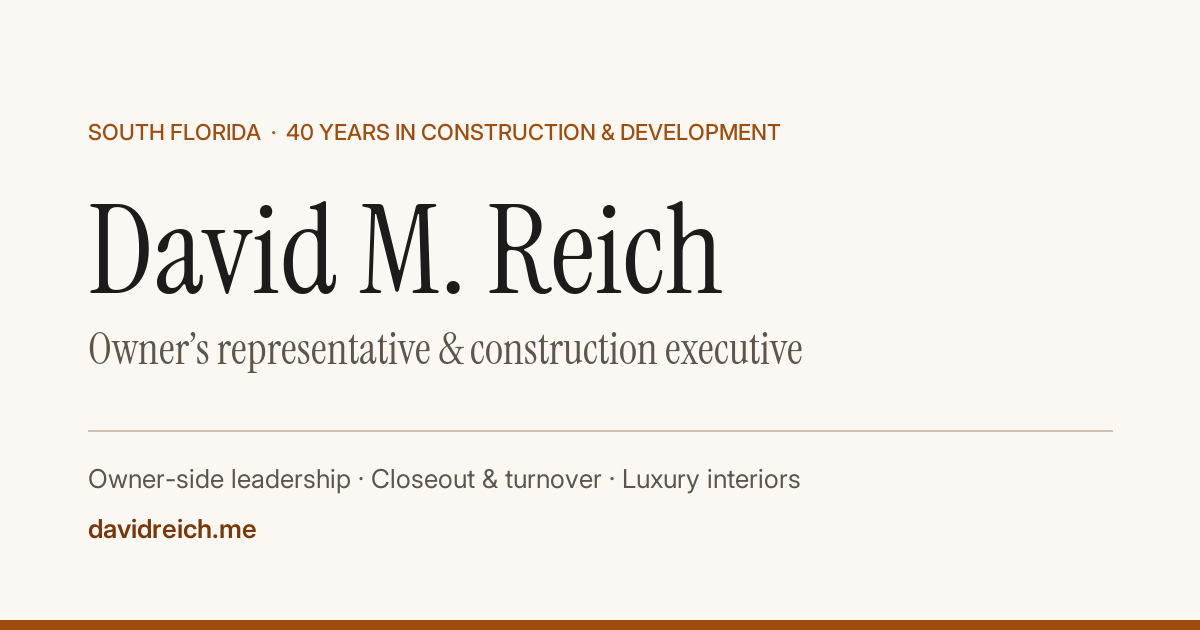
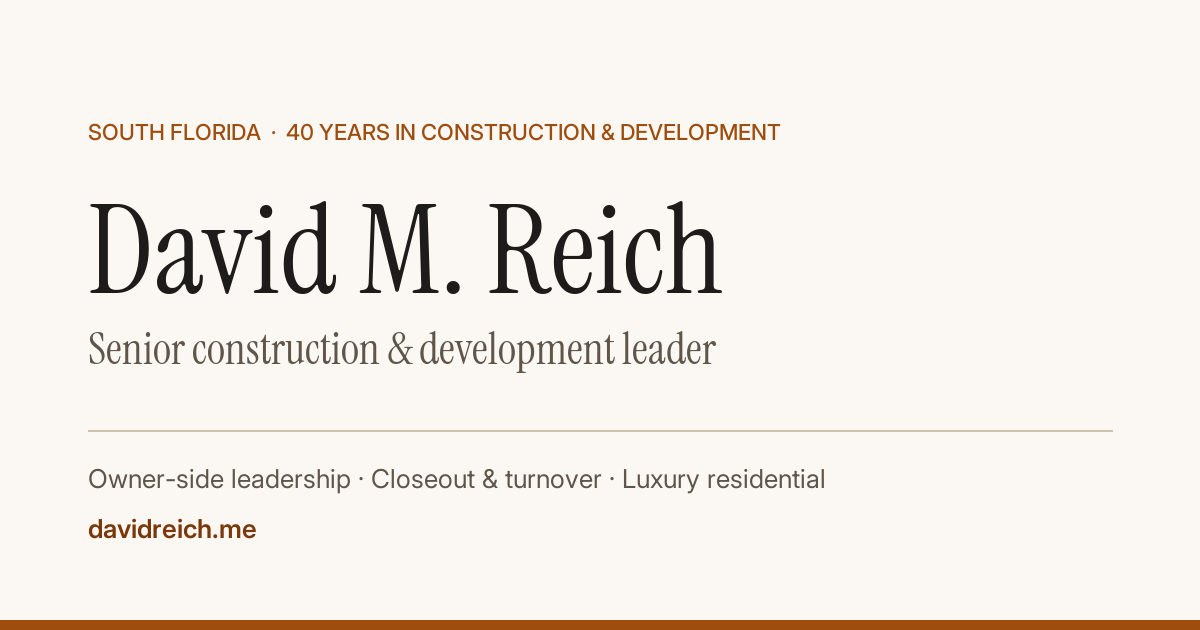
Employment-first positioning (per Sol): senior construction & development leader, experience-first CTA and order, services as 'What I lead', drop 2026 independent row

Changed region(s): [[0.0617, 0.5127, 0.6783, 0.6032], [0.5858, 0.754, 0.7092, 0.7841]]

diff --git a/index.html b/index.html
@@ -3,22 +3,22 @@
 <head>
 <meta charset="utf-8">
 <meta name="viewport" content="width=device-width, initial-scale=1">
-<title>David M. Reich | Owner’s Representative &amp; Construction Executive, South Florida</title>
-<meta name="description" content="South Florida owner’s representative and construction executive with 40 years across development, contracting, luxury interiors, project oversight, closeout and turnover.">
+<title>David M. Reich | Senior Construction &amp; Development Leader, South Florida</title>
+<meta name="description" content="Senior construction and development leader in South Florida with 40 years across development, contracting, luxury interiors, project oversight, closeout and turnover.">
 <link rel="canonical" href="https://davidreich.me/">
 <link rel="icon" href="/favicon.svg" type="image/svg+xml">
 <meta name="theme-color" content="#fbf8f3">
 <meta property="og:type" content="profile">
 <meta property="og:url" content="https://davidreich.me/">
-<meta property="og:title" content="David M. Reich | Owner’s Representative &amp; Construction Executive">
+<meta property="og:title" content="David M. Reich | Senior Construction &amp; Development Leader">
 <meta property="og:description" content="40 years across development, contracting, ownership and operations. Luxury condo closeout, finishes and owner-side leadership in South Florida.">
 <meta property="og:image" content="https://davidreich.me/og.png">
 <meta property="og:image:width" content="1200">
 <meta property="og:image:height" content="630">
-<meta property="og:image:alt" content="David M. Reich, Owner’s Representative and Construction Executive, South Florida">
+<meta property="og:image:alt" content="David M. Reich, senior construction and development leader, South Florida">
 <meta name="twitter:card" content="summary_large_image">
 <script type="application/ld+json">
-{"@context":"https://schema.org","@type":"Person","name":"David M. Reich","url":"https://davidreich.me/","email":"mailto:david@davidreich.me","jobTitle":"Owner’s Representative and Construction Executive","knowsAbout":["Owner’s representation","Construction management","Real estate development","Project closeout and turnover","Luxury interiors and finishes"],"areaServed":["Miami-Dade County, FL","Broward County, FL","Palm Beach County, FL"],"address":{"@type":"PostalAddress","addressLocality":"Fort Lauderdale","addressRegion":"FL","addressCountry":"US"},"alumniOf":[{"@type":"CollegeOrUniversity","name":"Baruch College, Zicklin School of Business"},{"@type":"CollegeOrUniversity","name":"Queens College"}],"sameAs":["https://www.linkedin.com/in/david-m-reich"]}
+{"@context":"https://schema.org","@type":"Person","name":"David M. Reich","url":"https://davidreich.me/","email":"mailto:david@davidreich.me","jobTitle":"Senior Construction and Development Leader","knowsAbout":["Owner’s representation","Construction management","Real estate development","Project closeout and turnover","Luxury interiors and finishes"],"areaServed":["Miami-Dade County, FL","Broward County, FL","Palm Beach County, FL"],"address":{"@type":"PostalAddress","addressLocality":"Fort Lauderdale","addressRegion":"FL","addressCountry":"US"},"alumniOf":[{"@type":"CollegeOrUniversity","name":"Baruch College, Zicklin School of Business"},{"@type":"CollegeOrUniversity","name":"Queens College"}],"sameAs":["https://www.linkedin.com/in/david-m-reich"]}
 </script>
 <link rel="preconnect" href="https://fonts.googleapis.com">
 <link rel="preconnect" href="https://fonts.gstatic.com" crossorigin>
@@ -162,8 +162,8 @@ textarea.input{ resize:vertical; min-height:120px }
 <header class="nav">
   <nav class="wrap" aria-label="Primary">
     <a class="brand" href="#main">David M. Reich</a>
-    <a href="#services">Services</a>
     <a href="#experience">Experience</a>
+    <a href="#services">What I lead</a>
     <a href="https://www.linkedin.com/in/david-m-reich" rel="me">LinkedIn</a>
     <a class="nav-cta" href="#engage">Get in touch</a>
   </nav>
@@ -174,13 +174,13 @@ textarea.input{ resize:vertical; min-height:120px }
   <div class="hero">
     <div>
       <h1>David M. Reich</h1>
-      <p class="role">Owner’s representative and construction executive in South Florida</p>
+      <p class="role">Senior construction and development leader in South Florida</p>
     </div>
     <div class="hero-body">
-      <p class="lede">I help owners and builders get complicated projects across the finish line, from planning through closeout and delivery. I stay with it.</p>
+      <p class="lede">I lead complicated projects to completion for owners and developers, from planning through closeout and delivery. I stay with it.</p>
       <p>I have worked as an owner’s rep, a ground-up developer, a general contractor, a property buyer and operator, and a hands-on construction manager.</p>
-      <p>I am open to senior roles with South Florida owners, developers and owner’s-rep firms (Director or VP of Construction, Project Executive, Senior Construction Manager) and to select owner’s-rep engagements. Either way, you deal with me directly.</p>
-      <div class="cta"><a class="btn" href="#engage">Discuss a role or project</a><a class="btn-ghost" href="#experience">See selected projects</a></div>
+      <p>I am looking for a senior leadership role with a South Florida owner, developer or builder: Director of Construction, Director of Project Management, Owner’s Representative, Senior Construction Manager or Project Executive.</p>
+      <div class="cta"><a class="btn" href="#experience">View experience and projects</a><a class="btn-ghost" href="#engage">Get in touch</a></div>
     </div>
   </div>
 
@@ -189,28 +189,6 @@ textarea.input{ resize:vertical; min-height:120px }
     <div><dt>40 years</dt><dd>Developer, contractor, owner and operator</dd></div>
     <div><dt>3</dt><dd>South Florida luxury projects since 2024, through closeout</dd></div>
   </dl>
-
-  <section id="services" aria-labelledby="services-h">
-    <div class="section-head"><h2 id="services-h">How I can help</h2></div>
-    <div class="services">
-      <div class="service">
-        <h3>Owner’s representation</h3>
-        <p>I represent you in the room. I coordinate architects, consultants and contractors, and I protect your schedule, budget and quality.</p>
-      </div>
-      <div class="service">
-        <h3>Senior project oversight</h3>
-        <p>When a project needs more leadership, I step in. I run schedules, field conditions, contractors, quality, procurement and sequencing, and I report clearly to ownership.</p>
-      </div>
-      <div class="service">
-        <h3>Closeout &amp; turnover</h3>
-        <p>The last ten percent is the hardest. I drive remaining finish work and punch lists, coordinate owner and contractor, and push through turnover and the temporary certificate of occupancy (TCO).</p>
-      </div>
-      <div class="service">
-        <h3>Luxury interiors &amp; complex finishes</h3>
-        <p>I specialize in high-end interiors: stone, tile, marble, custom slabs, mosaics and flooring. These are the details clients see.</p>
-      </div>
-    </div>
-  </section>
 
   <section id="experience" aria-labelledby="experience-h">
     <div class="section-head"><h2 id="experience-h">Selected experience</h2></div>
@@ -245,16 +223,37 @@ textarea.input{ resize:vertical; min-height:120px }
         <tr><td>Real estate owner / operator</td><td>2002–2006</td><td>Acquisition, repositioning, capital improvements, leasing and management of multifamily properties.</td></tr>
         <tr><td>Chief operating officer</td><td>2007–2024</td><td>Seventeen years running purchasing, vendors, production schedules, distribution and budgets for a made-to-order consumer-products company. The same discipline drives procurement and long-lead tracking on a job.</td></tr>
         <tr><td>Interiors &amp; closeout, South Florida</td><td>2024–2026</td><td>Finishes, trade coordination, punch lists and turnover on luxury condo, mixed-use and sales-gallery projects.</td></tr>
-        <tr><td>Owner’s rep &amp; advisory</td><td>2026–Present</td><td>Select owner’s-rep engagements in South Florida while I look for my next senior in-house role.</td></tr>
       </tbody>
     </table>
+  </section>
+
+  <section id="services" aria-labelledby="services-h">
+    <div class="section-head"><h2 id="services-h">What I lead</h2></div>
+    <div class="services">
+      <div class="service">
+        <h3>Owner’s representation</h3>
+        <p>I represent ownership in the room. I coordinate architects, consultants and contractors, and I protect schedule, budget and quality.</p>
+      </div>
+      <div class="service">
+        <h3>Project leadership</h3>
+        <p>When a project needs more leadership, I step in. I run schedules, field conditions, contractors, quality, procurement and sequencing, and I report clearly to ownership.</p>
+      </div>
+      <div class="service">
+        <h3>Closeout &amp; turnover</h3>
+        <p>The last ten percent is the hardest. I drive remaining finish work and punch lists, coordinate owner and contractor, and push through turnover and the temporary certificate of occupancy (TCO).</p>
+      </div>
+      <div class="service">
+        <h3>Luxury interiors &amp; complex finishes</h3>
+        <p>I specialize in high-end interiors: stone, tile, marble, custom slabs, mosaics and flooring. These are the details clients see.</p>
+      </div>
+    </div>
   </section>
 
   <section id="engage" aria-labelledby="engage-h">
     <div class="engage">
       <div class="engage-intro">
-        <div class="section-head" style="margin-bottom:16px"><h2 id="engage-h">Open to roles and engagements</h2></div>
-        <p>Hiring for a senior construction or development role, or have a project that needs an owner’s rep? Tell me about it. That includes condo capital, restoration and turnover programs, closeout, and luxury residential or complex-interior work. I will tell you plainly if I am the right person.</p>
+        <div class="section-head" style="margin-bottom:16px"><h2 id="engage-h">Get in touch</h2></div>
+        <p>Hiring for a senior construction or development role? I would like to hear about it. I also take on select owner’s-rep and closeout assignments, including condo capital and restoration programs. I will tell you plainly if I am the right person.</p>
       </div>
       <form class="form" id="contact" novalidate>
         <div class="field-row">
@@ -305,7 +304,7 @@ textarea.input{ resize:vertical; min-height:120px }
   <div class="wrap">
     <span>© 2026 David M. Reich</span>
     <span>Miami · Fort Lauderdale · Palm Beach</span>
-    <nav aria-label="Footer"><a href="#services">Services</a><a href="#experience">Experience</a><a href="#engage">Contact</a><a href="https://www.linkedin.com/in/david-m-reich" rel="me">LinkedIn</a></nav>
+    <nav aria-label="Footer"><a href="#experience">Experience</a><a href="#services">What I lead</a><a href="#engage">Contact</a><a href="https://www.linkedin.com/in/david-m-reich" rel="me">LinkedIn</a></nav>
   </div>
 </footer>
 

diff --git a/public/index.html b/public/index.html
@@ -3,22 +3,22 @@
 <head>
 <meta charset="utf-8">
 <meta name="viewport" content="width=device-width, initial-scale=1">
-<title>David M. Reich | Owner’s Representative &amp; Construction Executive, South Florida</title>
-<meta name="description" content="South Florida owner’s representative and construction executive with 40 years across development, contracting, luxury interiors, project oversight, closeout and turnover.">
+<title>David M. Reich | Senior Construction &amp; Development Leader, South Florida</title>
+<meta name="description" content="Senior construction and development leader in South Florida with 40 years across development, contracting, luxury interiors, project oversight, closeout and turnover.">
 <link rel="canonical" href="https://davidreich.me/">
 <link rel="icon" href="/favicon.svg" type="image/svg+xml">
 <meta name="theme-color" content="#fbf8f3">
 <meta property="og:type" content="profile">
 <meta property="og:url" content="https://davidreich.me/">
-<meta property="og:title" content="David M. Reich | Owner’s Representative &amp; Construction Executive">
+<meta property="og:title" content="David M. Reich | Senior Construction &amp; Development Leader">
 <meta property="og:description" content="40 years across development, contracting, ownership and operations. Luxury condo closeout, finishes and owner-side leadership in South Florida.">
 <meta property="og:image" content="https://davidreich.me/og.png">
 <meta property="og:image:width" content="1200">
 <meta property="og:image:height" content="630">
-<meta property="og:image:alt" content="David M. Reich, Owner’s Representative and Construction Executive, South Florida">
+<meta property="og:image:alt" content="David M. Reich, senior construction and development leader, South Florida">
 <meta name="twitter:card" content="summary_large_image">
 <script type="application/ld+json">
-{"@context":"https://schema.org","@type":"Person","name":"David M. Reich","url":"https://davidreich.me/","email":"mailto:david@davidreich.me","jobTitle":"Owner’s Representative and Construction Executive","knowsAbout":["Owner’s representation","Construction management","Real estate development","Project closeout and turnover","Luxury interiors and finishes"],"areaServed":["Miami-Dade County, FL","Broward County, FL","Palm Beach County, FL"],"address":{"@type":"PostalAddress","addressLocality":"Fort Lauderdale","addressRegion":"FL","addressCountry":"US"},"alumniOf":[{"@type":"CollegeOrUniversity","name":"Baruch College, Zicklin School of Business"},{"@type":"CollegeOrUniversity","name":"Queens College"}],"sameAs":["https://www.linkedin.com/in/david-m-reich"]}
+{"@context":"https://schema.org","@type":"Person","name":"David M. Reich","url":"https://davidreich.me/","email":"mailto:david@davidreich.me","jobTitle":"Senior Construction and Development Leader","knowsAbout":["Owner’s representation","Construction management","Real estate development","Project closeout and turnover","Luxury interiors and finishes"],"areaServed":["Miami-Dade County, FL","Broward County, FL","Palm Beach County, FL"],"address":{"@type":"PostalAddress","addressLocality":"Fort Lauderdale","addressRegion":"FL","addressCountry":"US"},"alumniOf":[{"@type":"CollegeOrUniversity","name":"Baruch College, Zicklin School of Business"},{"@type":"CollegeOrUniversity","name":"Queens College"}],"sameAs":["https://www.linkedin.com/in/david-m-reich"]}
 </script>
 <link rel="preconnect" href="https://fonts.googleapis.com">
 <link rel="preconnect" href="https://fonts.gstatic.com" crossorigin>
@@ -162,8 +162,8 @@ textarea.input{ resize:vertical; min-height:120px }
 <header class="nav">
   <nav class="wrap" aria-label="Primary">
     <a class="brand" href="#main">David M. Reich</a>
-    <a href="#services">Services</a>
     <a href="#experience">Experience</a>
+    <a href="#services">What I lead</a>
     <a href="https://www.linkedin.com/in/david-m-reich" rel="me">LinkedIn</a>
     <a class="nav-cta" href="#engage">Get in touch</a>
   </nav>
@@ -174,13 +174,13 @@ textarea.input{ resize:vertical; min-height:120px }
   <div class="hero">
     <div>
       <h1>David M. Reich</h1>
-      <p class="role">Owner’s representative and construction executive in South Florida</p>
+      <p class="role">Senior construction and development leader in South Florida</p>
     </div>
     <div class="hero-body">
-      <p class="lede">I help owners and builders get complicated projects across the finish line, from planning through closeout and delivery. I stay with it.</p>
+      <p class="lede">I lead complicated projects to completion for owners and developers, from planning through closeout and delivery. I stay with it.</p>
       <p>I have worked as an owner’s rep, a ground-up developer, a general contractor, a property buyer and operator, and a hands-on construction manager.</p>
-      <p>I am open to senior roles with South Florida owners, developers and owner’s-rep firms (Director or VP of Construction, Project Executive, Senior Construction Manager) and to select owner’s-rep engagements. Either way, you deal with me directly.</p>
-      <div class="cta"><a class="btn" href="#engage">Discuss a role or project</a><a class="btn-ghost" href="#experience">See selected projects</a></div>
+      <p>I am looking for a senior leadership role with a South Florida owner, developer or builder: Director of Construction, Director of Project Management, Owner’s Representative, Senior Construction Manager or Project Executive.</p>
+      <div class="cta"><a class="btn" href="#experience">View experience and projects</a><a class="btn-ghost" href="#engage">Get in touch</a></div>
     </div>
   </div>
 
@@ -189,28 +189,6 @@ textarea.input{ resize:vertical; min-height:120px }
     <div><dt>40 years</dt><dd>Developer, contractor, owner and operator</dd></div>
     <div><dt>3</dt><dd>South Florida luxury projects since 2024, through closeout</dd></div>
   </dl>
-
-  <section id="services" aria-labelledby="services-h">
-    <div class="section-head"><h2 id="services-h">How I can help</h2></div>
-    <div class="services">
-      <div class="service">
-        <h3>Owner’s representation</h3>
-        <p>I represent you in the room. I coordinate architects, consultants and contractors, and I protect your schedule, budget and quality.</p>
-      </div>
-      <div class="service">
-        <h3>Senior project oversight</h3>
-        <p>When a project needs more leadership, I step in. I run schedules, field conditions, contractors, quality, procurement and sequencing, and I report clearly to ownership.</p>
-      </div>
-      <div class="service">
-        <h3>Closeout &amp; turnover</h3>
-        <p>The last ten percent is the hardest. I drive remaining finish work and punch lists, coordinate owner and contractor, and push through turnover and the temporary certificate of occupancy (TCO).</p>
-      </div>
-      <div class="service">
-        <h3>Luxury interiors &amp; complex finishes</h3>
-        <p>I specialize in high-end interiors: stone, tile, marble, custom slabs, mosaics and flooring. These are the details clients see.</p>
-      </div>
-    </div>
-  </section>
 
   <section id="experience" aria-labelledby="experience-h">
     <div class="section-head"><h2 id="experience-h">Selected experience</h2></div>
@@ -245,16 +223,37 @@ textarea.input{ resize:vertical; min-height:120px }
         <tr><td>Real estate owner / operator</td><td>2002–2006</td><td>Acquisition, repositioning, capital improvements, leasing and management of multifamily properties.</td></tr>
         <tr><td>Chief operating officer</td><td>2007–2024</td><td>Seventeen years running purchasing, vendors, production schedules, distribution and budgets for a made-to-order consumer-products company. The same discipline drives procurement and long-lead tracking on a job.</td></tr>
         <tr><td>Interiors &amp; closeout, South Florida</td><td>2024–2026</td><td>Finishes, trade coordination, punch lists and turnover on luxury condo, mixed-use and sales-gallery projects.</td></tr>
-        <tr><td>Owner’s rep &amp; advisory</td><td>2026–Present</td><td>Select owner’s-rep engagements in South Florida while I look for my next senior in-house role.</td></tr>
       </tbody>
     </table>
+  </section>
+
+  <section id="services" aria-labelledby="services-h">
+    <div class="section-head"><h2 id="services-h">What I lead</h2></div>
+    <div class="services">
+      <div class="service">
+        <h3>Owner’s representation</h3>
+        <p>I represent ownership in the room. I coordinate architects, consultants and contractors, and I protect schedule, budget and quality.</p>
+      </div>
+      <div class="service">
+        <h3>Project leadership</h3>
+        <p>When a project needs more leadership, I step in. I run schedules, field conditions, contractors, quality, procurement and sequencing, and I report clearly to ownership.</p>
+      </div>
+      <div class="service">
+        <h3>Closeout &amp; turnover</h3>
+        <p>The last ten percent is the hardest. I drive remaining finish work and punch lists, coordinate owner and contractor, and push through turnover and the temporary certificate of occupancy (TCO).</p>
+      </div>
+      <div class="service">
+        <h3>Luxury interiors &amp; complex finishes</h3>
+        <p>I specialize in high-end interiors: stone, tile, marble, custom slabs, mosaics and flooring. These are the details clients see.</p>
+      </div>
+    </div>
   </section>
 
   <section id="engage" aria-labelledby="engage-h">
     <div class="engage">
       <div class="engage-intro">
-        <div class="section-head" style="margin-bottom:16px"><h2 id="engage-h">Open to roles and engagements</h2></div>
-        <p>Hiring for a senior construction or development role, or have a project that needs an owner’s rep? Tell me about it. That includes condo capital, restoration and turnover programs, closeout, and luxury residential or complex-interior work. I will tell you plainly if I am the right person.</p>
+        <div class="section-head" style="margin-bottom:16px"><h2 id="engage-h">Get in touch</h2></div>
+        <p>Hiring for a senior construction or development role? I would like to hear about it. I also take on select owner’s-rep and closeout assignments, including condo capital and restoration programs. I will tell you plainly if I am the right person.</p>
       </div>
       <form class="form" id="contact" novalidate>
         <div class="field-row">
@@ -305,7 +304,7 @@ textarea.input{ resize:vertical; min-height:120px }
   <div class="wrap">
     <span>© 2026 David M. Reich</span>
     <span>Miami · Fort Lauderdale · Palm Beach</span>
-    <nav aria-label="Footer"><a href="#services">Services</a><a href="#experience">Experience</a><a href="#engage">Contact</a><a href="https://www.linkedin.com/in/david-m-reich" rel="me">LinkedIn</a></nav>
+    <nav aria-label="Footer"><a href="#experience">Experience</a><a href="#services">What I lead</a><a href="#engage">Contact</a><a href="https://www.linkedin.com/in/david-m-reich" rel="me">LinkedIn</a></nav>
   </div>
 </footer>
 
